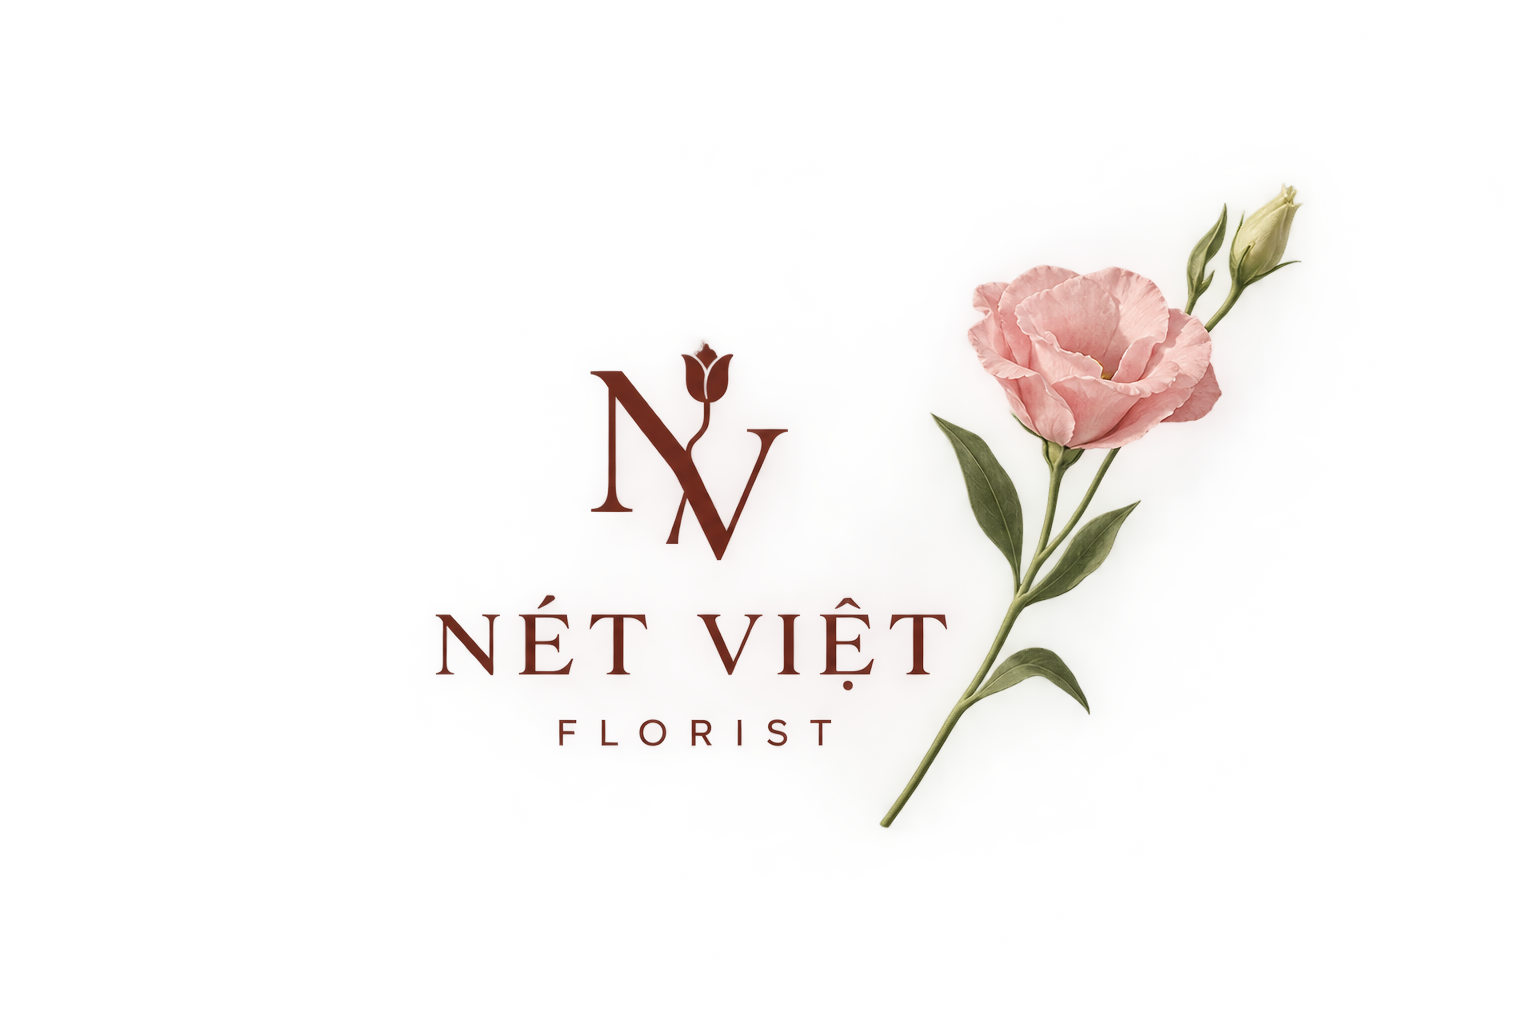
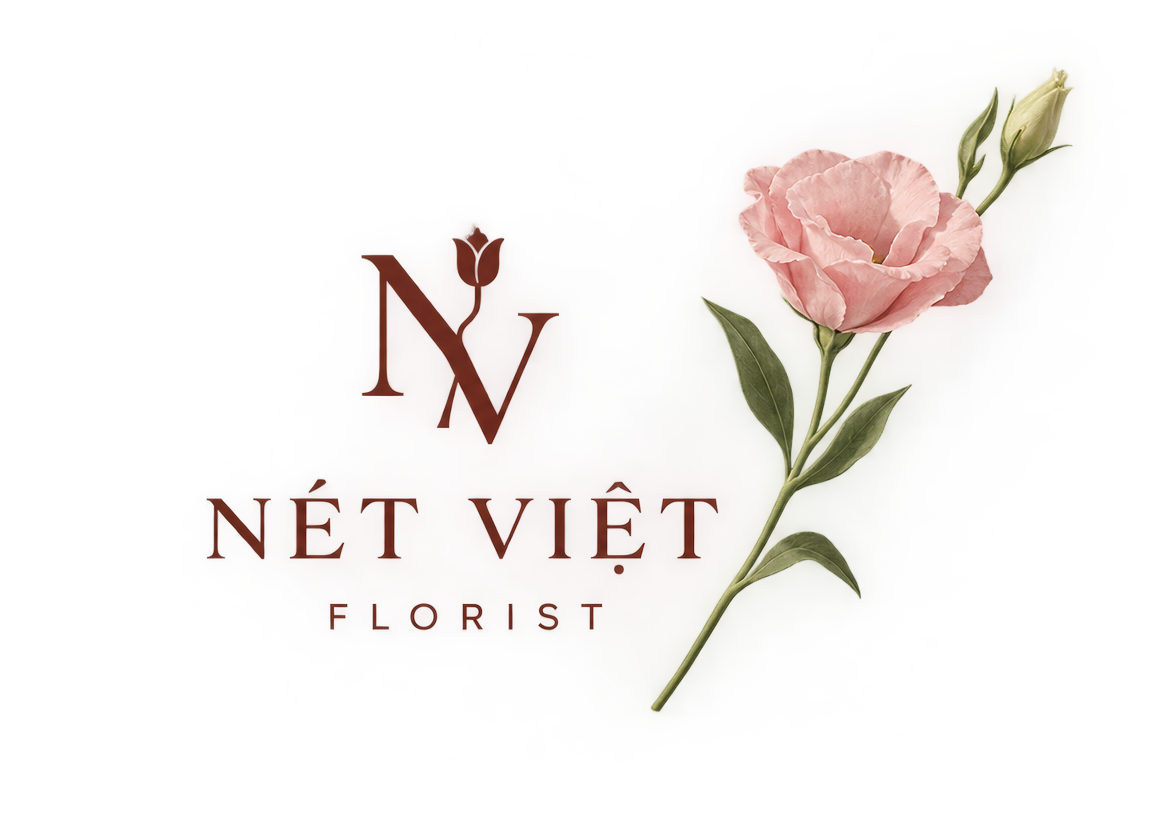
feat: add the animation effect to the intro section

Changed region(s): [[0.1838, 0.0903, 0.9191, 0.8724], [0.3064, 0.2708, 0.5209, 0.5415]]

diff --git a/components/IntroSection.tsx b/components/IntroSection.tsx
@@ -40,61 +40,67 @@ export default function IntroSection() {
           ))}
         </div>
       </div>
-      <div className="mx-auto grid max-w-[1400px] grid-cols-1 items-center gap-10 px-4 py-14 sm:px-6 md:py-15 lg:grid-cols-2 lg:px-8">
+      <div className="mx-auto grid max-w-[1400px] grid-cols-1 items-center gap-10 px-4 py-14 sm:px-6 md:py-5 lg:grid-cols-2 lg:px-8">
         {/* LEFT */}
-        <Reveal direction="left">
-          <div className="max-w-2xl">
-            <div className="mb-6 flex font-bold items-center gap-2 text-2xl text-[var(--color-primary)]">
-              <span>NÉT VIỆT FLORIST</span>
-            </div>
+        <div className="order-2 lg:order-1">
+          <Reveal direction="left">
+            <div className="max-w-2xl">
+              <div className="mb-6 flex font-bold items-center gap-2 text-2xl text-[var(--color-primary)]">
+                <span>NÉT VIỆT FLORIST</span>
+              </div>
 
-            <h1 className="max-w-xl text-4xl font-semibold leading-[1.08] tracking-tight text-[var(--color-text-main)] sm:text-5xl lg:text-6xl">
-                Những đóa hoa
-                <br />
-                thay bạn{" "}
+              <h1 className="max-w-xl text-3xl font-semibold leading-[1.1] tracking-tight text-[var(--color-text-main)] sm:text-4xl lg:text-5xl">
                 <TypingText
-                    text="nói điều muốn nói."
-                    speed={65}
-                    delay={700}
-                    className="text-[var(--color-primary)]"
-            />
-            </h1>
+                  text="NƠI CẢM XÚC NỞ HOA!"
+                  speed={65}
+                  deleteSpeed={35}
+                  delay={700}
+                  pause={2000}
+                  className="text-[var(--color-text-main)]"
+                />
+              </h1>
 
-            <p className="mt-6 max-w-lg text-base leading-7 text-gray-500 sm:text-lg">
-              Những thiết kế hoa được chọn lọc và chăm chút cho sinh nhật, kỷ
-              niệm, khai trương, cưới hỏi và những dịp đặc biệt trong cuộc sống.
-            </p>
+              <p className="mt-6 max-w-lg text-base leading-7 text-gray-500 sm:text-lg">
+                Những thiết kế hoa được chọn lọc và chăm chút cho sinh nhật, kỷ
+                niệm, khai trương, cưới hỏi và những dịp đặc biệt trong cuộc
+                sống.
+              </p>
 
-            <div className="mt-8 flex flex-wrap items-center gap-3">
-              <Link
-                href="/san-pham"
-                className="inline-flex items-center justify-center bg-[var(--color-primary)] px-6 py-3 text-sm font-medium text-white transition-colors hover:bg-[var(--color-primary-hover)]"
-              >
-                Xem các mẫu hoa
-              </Link>
+              <div className="mt-8 flex flex-wrap items-center gap-3">
+                <Link
+                  href="/san-pham"
+                  className="inline-flex items-center justify-center bg-[var(--color-primary)] px-6 py-3 text-sm font-medium text-white transition-colors hover:bg-[var(--color-primary-hover)]"
+                >
+                  Xem các mẫu hoa
+                </Link>
 
-              <Link
-                href="#how-it-works"
-                className="inline-flex items-center justify-center border border-gray-300 bg-white px-6 py-3 text-sm font-medium text-[var(--color-text-main)] transition-colors hover:border-[var(--color-primary)] hover:text-[var(--color-primary)]"
-              >
-                Cách đặt hoa
-              </Link>
+                <Link
+                  href="#how-it-works"
+                  className="inline-flex items-center justify-center border border-gray-300 bg-white px-6 py-3 text-sm font-medium text-[var(--color-text-main)] transition-colors hover:border-[var(--color-primary)] hover:text-[var(--color-primary)]"
+                >
+                  Cách đặt hoa
+                </Link>
+              </div>
             </div>
-          </div>
-        </Reveal>
+          </Reveal>
+        </div>
 
         {/* RIGHT */}
-        <Reveal direction="right" delay={0.15}>
-          <div className="relative">
-            <div className="aspect-[4/3] overflow-hidden">
-              <img
-                src="/netviet-intro.png"
-                alt="Hoa tươi tại Nét Việt Florist"
-                className="h-full w-full object-cover"
-              />
+        <div className="order-1 lg:order-2">
+          <Reveal direction="right" delay={0.15}>
+            <div className="relative aspect-[4/3] overflow-hidden">
+              <div className="absolute inset-[-100%] animate-border-spin bg-[conic-gradient(from_0deg,transparent_0deg,transparent_300deg,var(--color-primary)_330deg,var(--color-secondary)_345deg,transparent_360deg)] motion-reduce:animate-none" />
+
+              <div className="absolute inset-[2px] z-10 flex items-center justify-center overflow-hidden bg-[var(--color-bg-light)]">
+                <img
+                  src="/netviet-intro.png"
+                  alt="Nét Việt Florist"
+                  className="h-full w-full object-contain"
+                />
+              </div>
             </div>
-          </div>
-        </Reveal>
+          </Reveal>
+        </div>
       </div>
     </section>
   );

diff --git a/components/animations/TypingText.tsx b/components/animations/TypingText.tsx
@@ -5,40 +5,68 @@ import { useEffect, useState } from "react";
 interface TypingTextProps {
   text: string;
   speed?: number;
+  deleteSpeed?: number;
   delay?: number;
+  pause?: number;
   className?: string;
 }
 
 export default function TypingText({
   text,
-  speed = 70,
-  delay = 500,
+  speed = 65,
+  deleteSpeed = 35,
+  delay = 700,
+  pause = 2000,
   className = "",
 }: TypingTextProps) {
   const [displayedText, setDisplayedText] = useState("");
+  const [isDeleting, setIsDeleting] = useState(false);
 
   useEffect(() => {
     let timeout: NodeJS.Timeout;
-    let interval: NodeJS.Timeout;
 
-    timeout = setTimeout(() => {
-      let index = 0;
-
-      interval = setInterval(() => {
-        setDisplayedText(text.slice(0, index + 1));
-        index++;
-
-        if (index >= text.length) {
-          clearInterval(interval);
-        }
+    // Bắt đầu typing sau delay
+    if (!isDeleting && displayedText.length < text.length) {
+      timeout = setTimeout(() => {
+        setDisplayedText(
+          text.slice(0, displayedText.length + 1)
+        );
       }, speed);
-    }, delay);
+    }
 
-    return () => {
-      clearTimeout(timeout);
-      clearInterval(interval);
-    };
-  }, [text, speed, delay]);
+    // Gõ xong → chờ một chút rồi bắt đầu xóa
+    else if (!isDeleting && displayedText.length === text.length) {
+      timeout = setTimeout(() => {
+        setIsDeleting(true);
+      }, pause);
+    }
+
+    // Đang xóa
+    else if (isDeleting && displayedText.length > 0) {
+      timeout = setTimeout(() => {
+        setDisplayedText(
+          text.slice(0, displayedText.length - 1)
+        );
+      }, deleteSpeed);
+    }
+
+    // Xóa xong → bắt đầu typing lại
+    else if (isDeleting && displayedText.length === 0) {
+      timeout = setTimeout(() => {
+        setIsDeleting(false);
+      }, delay);
+    }
+
+    return () => clearTimeout(timeout);
+  }, [
+    displayedText,
+    isDeleting,
+    text,
+    speed,
+    deleteSpeed,
+    delay,
+    pause,
+  ]);
 
   return (
     <span className={className}>

diff --git a/app/globals.css b/app/globals.css
@@ -59,6 +59,16 @@
   animation: blink 0.8s infinite;
 }
 
+@keyframes border-spin {
+  to {
+    transform: rotate(360deg);
+  }
+}
+
+.animate-border-spin {
+  animation: border-spin 4s linear infinite;
+}
+
 body {
   background-color: var(--color-bg-light);
   color: var(--color-text-main);
